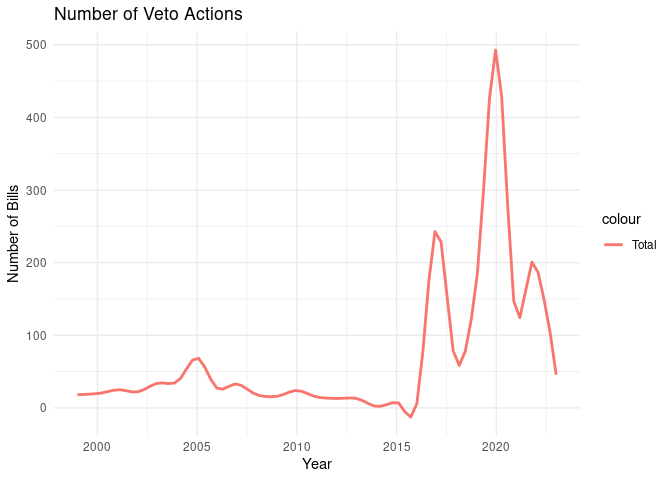
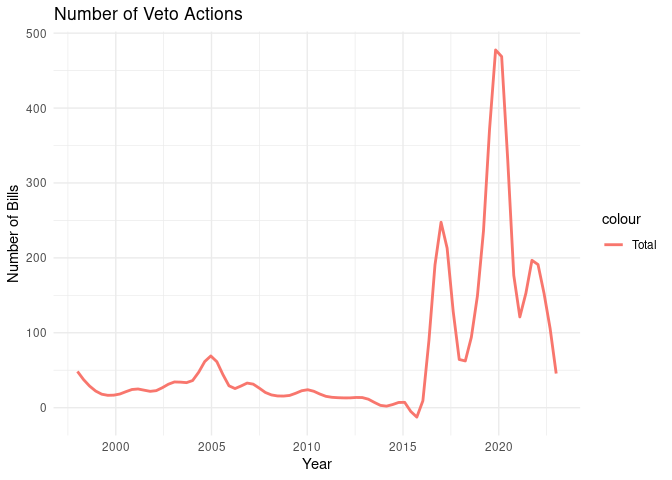
Updated DESCRIPTION and README

diff --git a/README.md b/README.md
@@ -39,13 +39,7 @@ possible.
 
 ## Installation
 
-You can install this package from CRAN:
-
-``` r
-install.packages("floridagov")
-```
-
-Or you can install the development version from GitHub with
+You can install the development version from GitHub with
 [remotes](https://github.com/r-lib/remotes):
 
 ``` r
@@ -89,13 +83,27 @@ data(bills)
 head(bills %>% select(Session,Number,Title,Category))
 ```
 
-    ##   Session Number                             Title      Category
-    ## 1    1999   HB 1   State Agency Performance Report  GENERAL BILL
-    ## 2    1999   SB 2                          Adoption  GENERAL BILL
-    ## 3    1999   HB 3      Child Identification Program  GENERAL BILL
-    ## 4    1999   SB 4 Relief/Joseph B. Farver/CFS Dept. CLAIM/GENERAL
-    ## 5    1999   HB 5   Immunizations/School Attendance  GENERAL BILL
-    ## 6    1999   SB 6  Relief/Marquez/Metro-Dade Police   CLAIM/LOCAL
+    ##   Session Number
+    ## 1    1998   HB 1
+    ## 2    1998   SB 2
+    ## 3    1998   HB 3
+    ## 4    1998   SB 4
+    ## 5    1998   HB 5
+    ## 6    1998   SB 6
+    ##                                                                                                                                                                                                                                                              Title
+    ## 1                                                                                                                                                                                                                                                Tobacco Education
+    ## 2                                                                    Relief/David Kelley & Kelley Estate;  compensates David Kelley & Estate of Alto Kelley for injuries & damages sustained as result of negligence of DOT. CLAIM WITH APPROPRIATION: $1,400,000.
+    ## 3                                                                                                                                                                                                                                        Unemployment Compensation
+    ## 4 Relief/Garcia/Miami Beach;  provides for relief of Juan A. Garcia, Jr., & Juan & Barbara Garcia, as natural parents of Juan A. Garcia, Jr.; compensates them for injuries & damages sustained as result of negligence of City of Miami Beach. CLAIM: $1,050,000.
+    ## 5                                                                                                                                                                                                                                                         Veterans
+    ## 6                                                                                     Relief/Michelle Ponce/Dade Co.;  compensates Michelle Ponce, a minor, for injuries & damages sustained as result of negligence of Metropolitan Dade County. CLAIM: $410,000.
+    ##       Category
+    ## 1 GENERAL BILL
+    ## 2 GENERAL BILL
+    ## 3 GENERAL BILL
+    ## 4   LOCAL BILL
+    ## 5 GENERAL BILL
+    ## 6   LOCAL BILL
 
 ### Legislative Actions
 
@@ -108,14 +116,14 @@ head(actions)
 ```
 
     ## # A tibble: 6 × 4
-    ##    Year Session Number Action                                                 
-    ##   <dbl> <chr>   <chr>  <chr>                                                  
-    ## 1  1999 1999    HB 1   Approved by Governor                                   
-    ## 2  1999 1999    HB 1   Chapter No. 99-377                                     
-    ## 3  1999 1999    HB 1   See also CS/HB 1927 (Ch. 99-393), HB 2125 (Ch. 99-397) 
-    ## 4  1999 1999    SB 2   H Died in Messages                                     
-    ## 5  1999 1999    HB 3   S Died in Committee on Health, Aging and Long-Term Care
-    ## 6  1999 1999    SB 4   Approved by Governor
+    ##    Year Session Number Action                                 
+    ##   <dbl> <chr>   <chr>  <chr>                                  
+    ## 1  1998 1998    HB 1   H Withdrawn                            
+    ## 2  1998 1998    SB 2   Became Law without Governor's Signature
+    ## 3  1998 1998    SB 2   Chapter No. 98-425 -SJ 00458           
+    ## 4  1998 1998    HB 3   Approved by Governor                   
+    ## 5  1998 1998    HB 3   Chapter No. 97-29 -HJ 01218            
+    ## 6  1998 1998    SB 4   S House Bill substituted -SJ 00170
 
 ### Votes
 
@@ -128,14 +136,14 @@ head(committee_votes)
 ```
 
     ## # A tibble: 6 × 9
-    ##   Session Number Version Date          Committee  Yeas  Nays VoteResultUrl  Year
-    ##   <chr>   <chr>  <chr>   <chr>         <chr>     <dbl> <dbl> <chr>         <dbl>
-    ## 1 1999    HB 1   H 1 e3  4/29/1999 10… Senate       39     0 https://www.…  1999
-    ## 2 1999    HB 1   H 1 e3  4/30/1999 4:… House       116     0 https://www.…  1999
-    ## 3 1999    HB 1   H 1 e3  4/30/1999 4:… House       118     0 https://www.…  1999
-    ## 4 1999    SB 2   S 2 e1  3/23/1999 10… Senate       35     4 https://www.…  1999
-    ## 5 1999    SB 2   S 2 e1  3/23/1999 10… Senate       20    18 https://www.…  1999
-    ## 6 1999    SB 2   S 2 e1  3/23/1999 10… Senate       25    11 https://www.…  1999
+    ##   Session Number Version   Date        Committee  Yeas  Nays VoteResultUrl  Year
+    ##   <chr>   <chr>  <chr>     <chr>       <chr>     <dbl> <dbl> <chr>         <dbl>
+    ## 1 1998    HB 1   H 1 Filed 9/18/1997 … House         0   120 https://www.…  1998
+    ## 2 1998    HB 1   H 1 Filed 2/24/1998 … House         0   119 https://www.…  1998
+    ## 3 1998    HB 1   H 1 Filed 3/5/1998 3… House        15     0 https://www.…  1998
+    ## 4 1998    HB 1   H 1 Filed 3/11/1998 … House        17     0 https://www.…  1998
+    ## 5 1998    HB 1   H 1 Filed 3/17/1998 … House        16     0 https://www.…  1998
+    ## 6 1998    HB 1   H 1 Filed 5/1/1998 1… Senate       40     0 https://www.…  1998
 
 ``` r
 # Floor Votes
@@ -144,14 +152,14 @@ head(committee_votes)
 ```
 
     ## # A tibble: 6 × 9
-    ##   Session Number Version Date          Committee  Yeas  Nays VoteResultUrl  Year
-    ##   <chr>   <chr>  <chr>   <chr>         <chr>     <dbl> <dbl> <chr>         <dbl>
-    ## 1 1999    HB 1   H 1 e3  4/29/1999 10… Senate       39     0 https://www.…  1999
-    ## 2 1999    HB 1   H 1 e3  4/30/1999 4:… House       116     0 https://www.…  1999
-    ## 3 1999    HB 1   H 1 e3  4/30/1999 4:… House       118     0 https://www.…  1999
-    ## 4 1999    SB 2   S 2 e1  3/23/1999 10… Senate       35     4 https://www.…  1999
-    ## 5 1999    SB 2   S 2 e1  3/23/1999 10… Senate       20    18 https://www.…  1999
-    ## 6 1999    SB 2   S 2 e1  3/23/1999 10… Senate       25    11 https://www.…  1999
+    ##   Session Number Version   Date        Committee  Yeas  Nays VoteResultUrl  Year
+    ##   <chr>   <chr>  <chr>     <chr>       <chr>     <dbl> <dbl> <chr>         <dbl>
+    ## 1 1998    HB 1   H 1 Filed 9/18/1997 … House         0   120 https://www.…  1998
+    ## 2 1998    HB 1   H 1 Filed 2/24/1998 … House         0   119 https://www.…  1998
+    ## 3 1998    HB 1   H 1 Filed 3/5/1998 3… House        15     0 https://www.…  1998
+    ## 4 1998    HB 1   H 1 Filed 3/11/1998 … House        17     0 https://www.…  1998
+    ## 5 1998    HB 1   H 1 Filed 3/17/1998 … House        16     0 https://www.…  1998
+    ## 6 1998    HB 1   H 1 Filed 5/1/1998 1… Senate       40     0 https://www.…  1998
 
 ## Exploring Further
 
